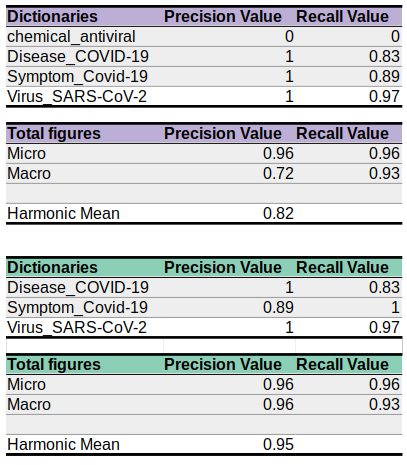
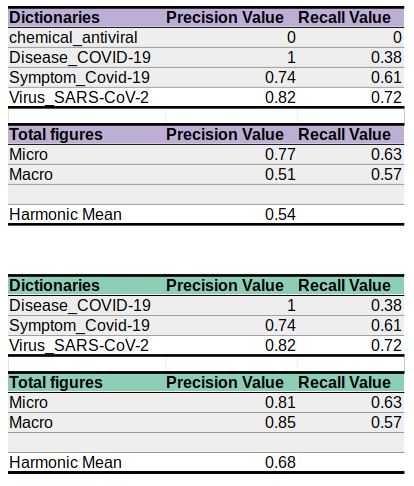
fix error for missing classes

diff --git a/src/pubannotationevaluator.py b/src/pubannotationevaluator.py
@@ -175,7 +175,7 @@ class PubannotationEvaluator:
                     # Might want to change to a safer implementation where we don't depend on an ordered
                     # word_classes_list. TODO
 
-                    if word_classes_list[i] in self.word_classes_set:
+                    if word_classes_list[i] in self.word_classes_set and tagger_denotation['id'] in self.word_classes_set:
                         word_class = word_classes_list[i]
                         self.word_classes_result_dict[word_class]['true_positives']['amount'] += 1
                         self.word_classes_result_dict[word_class]['total']['amount'] += 1
@@ -187,9 +187,9 @@ class PubannotationEvaluator:
                             f'id: {word_class}, '
                             f'entity: {text[tagger_denotation_span[0]:tagger_denotation_span[1] + 1]}, '
                             f'span: {tagger_denotation_span}')
-                    true_denotation.update({'is_checked': True})
-                    tagger_denotation.update({'is_checked': True})
-                    break
+                        true_denotation.update({'is_checked': True})
+                        tagger_denotation.update({'is_checked': True})
+                        break
                 i += 1
 
         for tagger_denotation in tagger_denotations:
@@ -271,8 +271,13 @@ class PubannotationEvaluator:
         """
         Calculates micro figure.
         """
-        self.precision_value = self.total_true_positives / (self.total_true_positives + self.total_false_positives)
-        self.recall_value = self.total_true_positives / (self.total_true_positives + self.total_false_negatives)
+        sum_value = self.total_true_positives + self.total_false_positives
+        if sum_value:
+            self.precision_value = self.total_true_positives / (self.total_true_positives + self.total_false_positives)
+            self.recall_value = self.total_true_positives / (self.total_true_positives + self.total_false_negatives)
+        else:
+            self.precision_value = 0
+            self.recall_value = 0
 
     def __calculate_macro(self):
         """
@@ -284,14 +289,18 @@ class PubannotationEvaluator:
             self.precision_value += precision_value
         for recall_value in self.recall_values:
             self.recall_value += recall_value
-        self.precision_value /= len(self.precision_values)
-        self.recall_value /= len(self.recall_values)
+        if self.precision_value:
+            self.precision_value /= len(self.precision_values)
+            self.recall_value /= len(self.recall_values)
 
     def __calculate_harmonic_mean(self):
         """
         Calculates harmonic mean/F1 score figure.
         """
-        harmonic_mean = (2*self.precision_value*self.recall_value) / (self.precision_value + self.recall_value)
+        sum_value = self.precision_value + self.recall_value
+        harmonic_mean = 0
+        if sum_value:
+            harmonic_mean = (2*self.precision_value*self.recall_value) / sum_value
         print(f'#########\tHARMONIC MEAN RESULT:\t###########')
         print(f'Harmonic mean:\t{harmonic_mean * 100:.0f}%')
 
